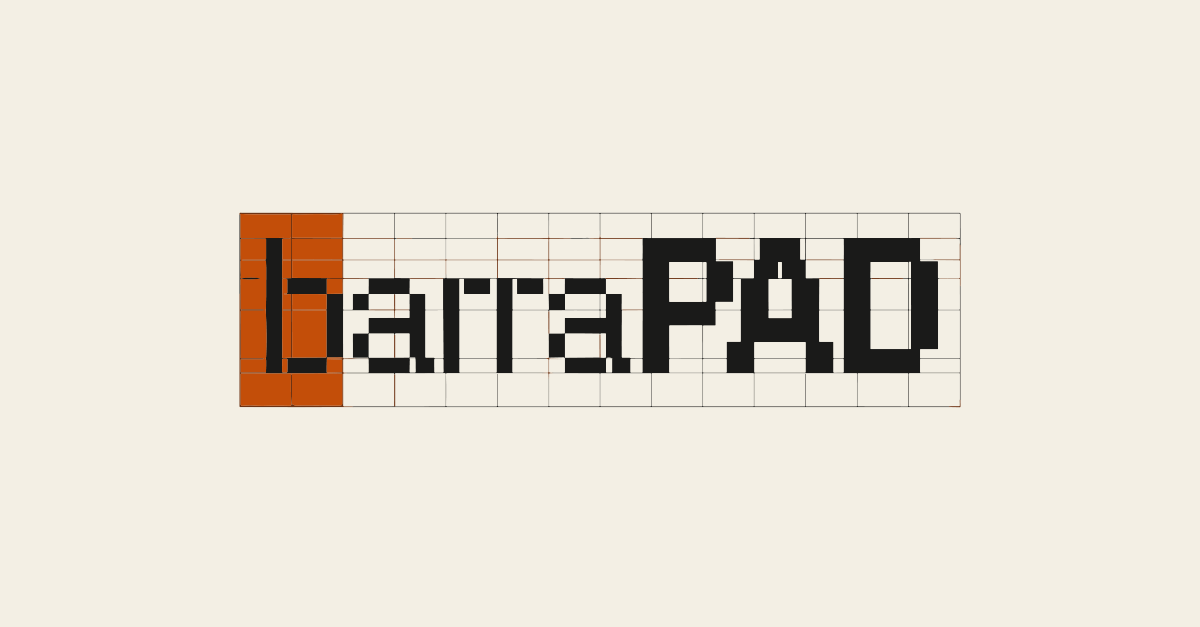
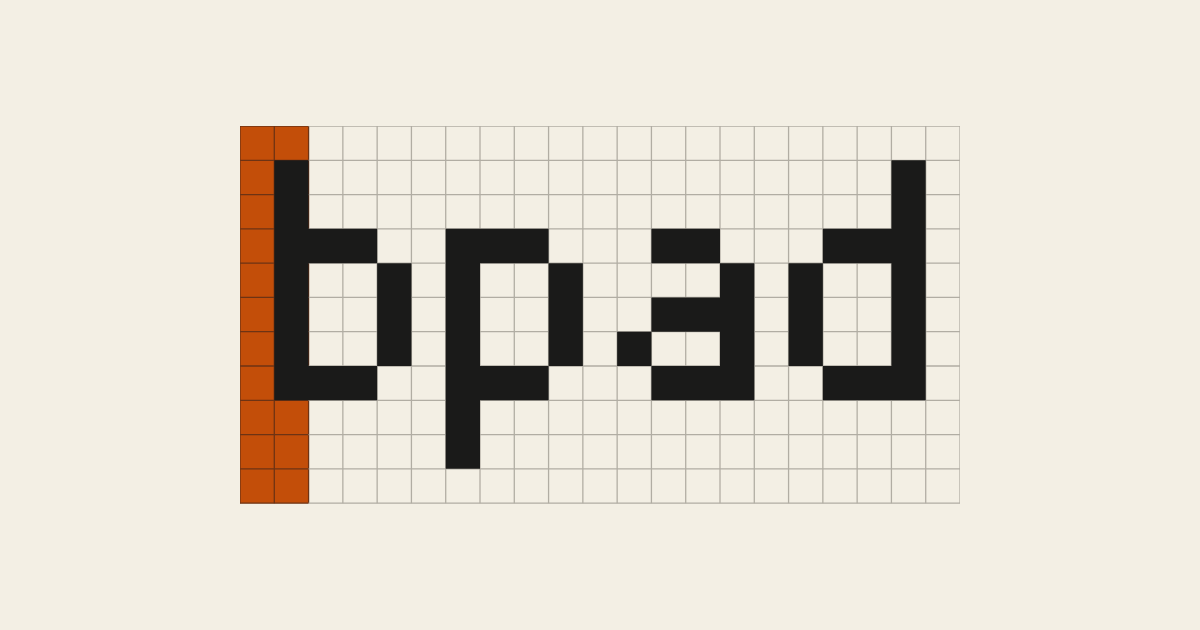
perf(load): server-render notes into the first paint; brand swap to bpad
The page now loads the user's notes with Prisma during the request and hands
them to AppShell, so the editor is usable at first paint instead of after
Clerk boots and /api/notes answers (about 1.4 s sooner on production). The
client fetch still runs for shared notes and refreshes. GET /api/notes shares
the helper.

Brand: new bpad icon and logo from the Portfolio brand folder replace the
barraPAD assets (favicon, app icon, sidebar logo, Open Graph image), and the
visible barraPAD strings now say bpad. Storage keys and event names unchanged.

diff --git a/components/AppShell.tsx b/components/AppShell.tsx
@@ -110,13 +110,14 @@ function saveTagRegistry(tags: Tag[]) {
   } catch {}
 }
 
-export default function AppShell() {
+export default function AppShell({ initialNotes }: { initialNotes?: Note[] } = {}) {
   const { isLoaded, isSignedIn } = useAuth()
   const { user } = useUser()
   const needsOnboarding = isLoaded && isSignedIn && user && !user.firstName
-  // Lazy init from cache — renders instantly, no loading state needed
-  const [notes, setNotes] = useState<Note[]>(() => loadCachedNotes())
-  const [activeNoteId, setActiveNoteId] = useState<string | null>(() => loadCachedNotes()[0]?.id ?? null)
+  // Server-rendered notes win (fresh, no lock); otherwise the localStorage
+  // cache renders instantly and the editor waits for the first fetch.
+  const [notes, setNotes] = useState<Note[]>(() => initialNotes ?? loadCachedNotes())
+  const [activeNoteId, setActiveNoteId] = useState<string | null>(() => (initialNotes ?? loadCachedNotes())[0]?.id ?? null)
   const [tagRegistry, setTagRegistry] = useState<Tag[]>(() => loadTagRegistry())
   // Incremented every time fetchNotes applies newer server content — lets the
   // Editor know it should re-check its content against the latest note.content.
@@ -124,7 +125,7 @@ export default function AppShell() {
   // False until the first /api/notes answer this session. While false the editor
   // is read-only: typing on top of a stale localStorage copy and auto-saving it
   // is how another device's edits got overwritten.
-  const [notesLoaded, setNotesLoaded] = useState(false)
+  const [notesLoaded, setNotesLoaded] = useState(!!initialNotes)
   const [sharedNotes, setSharedNotes] = useState<SharedAccessRecord[]>([])
   const [showShare, setShowShare] = useState(false)
   const [showAppearance, setShowAppearance] = useState(false)
@@ -299,8 +300,8 @@ export default function AppShell() {
   useEffect(() => {
     const noteName = activeNote?.title
     document.title = noteName
-      ? `${noteName} | barraPAD - A notepad for whatever`
-      : 'barraPAD - A notepad for whatever'
+      ? `${noteName} | bpad - A notepad for whatever`
+      : 'bpad - A notepad for whatever'
   }, [activeNote?.title])
 
   // Background sync — re-runs when Clerk finishes loading or auth state changes

diff --git a/components/SharedNoteView.tsx b/components/SharedNoteView.tsx
@@ -238,7 +238,7 @@ export default function SharedNoteView({ token, noteId, initialTitle, initialCon
       }
 
       if (msg.type === 'title' && msg.title) {
-        document.title = `${msg.title} | barraPAD - A notepad for whatever`
+        document.title = `${msg.title} | bpad - A notepad for whatever`
         return
       }
 
@@ -282,7 +282,7 @@ export default function SharedNoteView({ token, noteId, initialTitle, initialCon
       <div style={{ minHeight: '100vh', display: 'flex', alignItems: 'center', justifyContent: 'center', background: 'var(--editor-bg, #F9F7F4)' }}>
         <div style={{ textAlign: 'center' }}>
           <p style={{ fontSize: 16, color: '#8A8178', marginBottom: 12 }}>This note has been deleted.</p>
-          <a href="/" style={{ fontSize: 14, color: '#D4550A', textDecoration: 'none', fontWeight: 600 }}>← Go to barraPAD</a>
+          <a href="/" style={{ fontSize: 14, color: '#D4550A', textDecoration: 'none', fontWeight: 600 }}>← Go to bpad</a>
         </div>
       </div>
     )
@@ -298,7 +298,7 @@ export default function SharedNoteView({ token, noteId, initialTitle, initialCon
       }}>
         <div style={{ display: 'flex', alignItems: 'center', gap: 12 }}>
           <a href="/" style={{ textDecoration: 'none' }}>
-            <img src="/logo.svg" alt="barraPAD" style={{ height: 28 }} />
+            <img src="/logo.svg" alt="bpad" style={{ height: 28 }} />
           </a>
           {isLoaded && isSignedIn && (
             <a href="/" style={{
@@ -387,7 +387,7 @@ export default function SharedNoteView({ token, noteId, initialTitle, initialCon
             style={{ color: '#8A8178', opacity: 0.8, cursor: 'pointer', background: 'none', border: 'none' }}
             onMouseEnter={(e) => { e.currentTarget.style.opacity = '1'; e.currentTarget.style.color = '#B8420A' }}
             onMouseLeave={(e) => { e.currentTarget.style.opacity = '0.8'; e.currentTarget.style.color = '#8A8178' }}
-            title="About barraPAD"
+            title="About bpad"
           >
             <HelpCircle size={22} />
           </button>

diff --git a/app/layout.tsx b/app/layout.tsx
@@ -4,20 +4,20 @@ import './globals.css'
 
 export const metadata: Metadata = {
   metadataBase: new URL(process.env.NEXT_PUBLIC_BASE_URL ?? 'https://www.bpad.cc'),
-  title: 'barraPAD - A notepad for whatever',
+  title: 'bpad - A notepad for whatever',
   description: 'A rich text notepad for whatever. Cloud sync, rich formatting, and more.',
   icons: {
     icon: [{ url: '/favicon.svg', type: 'image/svg+xml' }],
   },
   openGraph: {
-    title: 'barraPAD - A notepad for whatever',
+    title: 'bpad - A notepad for whatever',
     description: 'A rich text notepad for whatever. Cloud sync, rich formatting, and more.',
     images: [{ url: '/og-image.png', width: 1200, height: 630 }],
     type: 'website',
   },
   twitter: {
     card: 'summary_large_image',
-    title: 'barraPAD - A notepad for whatever',
+    title: 'bpad - A notepad for whatever',
     description: 'A rich text notepad for whatever. Cloud sync, rich formatting, and more.',
     images: ['/og-image.png'],
   },

diff --git a/app/api/notes/route.ts b/app/api/notes/route.ts
@@ -1,28 +1,13 @@
 import { auth } from '@clerk/nextjs/server'
 import { NextResponse } from 'next/server'
 import { prisma } from '@/lib/prisma'
-import type { Tag } from '@/types'
-
-function parseTags(raw: string): Tag[] {
-  try { return JSON.parse(raw || '[]') } catch { return [] }
-}
+import { listOwnedNotes } from '@/lib/notes'
 
 export async function GET() {
   const { userId } = await auth()
   if (!userId) return NextResponse.json({ error: 'Unauthorized' }, { status: 401 })
 
-  const notes = await prisma.note.findMany({
-    where: { userId },
-    orderBy: { updatedAt: 'desc' },
-    include: { _count: { select: { shareLinks: { where: { revokedAt: null } } } } },
-  })
-
-  return NextResponse.json(notes.map(n => ({
-    ...n,
-    tags: parseTags(n.tags),
-    isShared: n._count.shareLinks > 0,
-    _count: undefined,
-  })), {
+  return NextResponse.json(await listOwnedNotes(userId), {
     headers: { 'Cache-Control': 'no-store, no-cache, must-revalidate' },
   })
 }

diff --git a/app/s/[token]/page.tsx b/app/s/[token]/page.tsx
@@ -25,12 +25,12 @@ function stripHtml(html: string) {
 export async function generateMetadata({ params }: Props): Promise<Metadata> {
   const link = await getShareData(params.token)
   if (!link) {
-    return { title: 'Note not found — barraPAD' }
+    return { title: 'Note not found — bpad' }
   }
 
   const title = link.note.title || 'Untitled'
-  const snippet = stripHtml(link.note.content).slice(0, 200) || 'A note shared from barraPAD.'
-  const fullTitle = `${title} — barraPAD`
+  const snippet = stripHtml(link.note.content).slice(0, 200) || 'A note shared from bpad.'
+  const fullTitle = `${title} — bpad`
 
   return {
     title: fullTitle,
@@ -39,7 +39,7 @@ export async function generateMetadata({ params }: Props): Promise<Metadata> {
       title: fullTitle,
       description: snippet,
       type: 'article',
-      siteName: 'barraPAD',
+      siteName: 'bpad',
       images: [{ url: '/og-image.png', width: 1200, height: 630 }],
     },
     twitter: {

diff --git a/app/api/notes/[id]/collaborators/route.ts b/app/api/notes/[id]/collaborators/route.ts
@@ -136,13 +136,13 @@ export async function POST(
   // Then send:
   //   if (inviteeEmail) {
   //     await resend.emails.send({
-  //       from: 'barraPAD <no-reply@bpad.cc>',
+  //       from: 'bpad <no-reply@bpad.cc>',
   //       to: inviteeEmail,
   //       subject: `${ownerName} shared "${owned.title || 'a note'}" with you`,
   //       html: `
   //         <p>Hi ${displayName || 'there'},</p>
-  //         <p><strong>${ownerName}</strong> invited you to ${permission === 'EDIT' ? 'collaborate on' : 'view'} a note in barraPAD.</p>
-  //         <p><a href="${process.env.NEXT_PUBLIC_BASE_URL ?? 'https://www.bpad.cc'}">Open barraPAD →</a></p>
+  //         <p><strong>${ownerName}</strong> invited you to ${permission === 'EDIT' ? 'collaborate on' : 'view'} a note in bpad.</p>
+  //         <p><a href="${process.env.NEXT_PUBLIC_BASE_URL ?? 'https://www.bpad.cc'}">Open bpad →</a></p>
   //       `,
   //     })
   //   }

diff --git a/lib/notes.ts b/lib/notes.ts
@@ -1,0 +1,24 @@
+import { prisma } from '@/lib/prisma'
+import type { Note, Tag } from '@/types'
+
+function parseTags(raw: string): Tag[] {
+  try { return JSON.parse(raw || '[]') } catch { return [] }
+}
+
+/** All notes a user owns, newest first, in the shape the client stores.
+ *  Used by GET /api/notes and by the server-rendered page so the first paint
+ *  already carries fresh notes (no round trip, no stale-cache lock). */
+export async function listOwnedNotes(userId: string): Promise<Note[]> {
+  const notes = await prisma.note.findMany({
+    where: { userId },
+    orderBy: { updatedAt: 'desc' },
+    include: { _count: { select: { shareLinks: { where: { revokedAt: null } } } } },
+  })
+  return notes.map(({ _count, ...n }) => ({
+    ...n,
+    tags: parseTags(n.tags),
+    createdAt: n.createdAt.toISOString(),
+    updatedAt: n.updatedAt.toISOString(),
+    isShared: _count.shareLinks > 0,
+  }))
+}

diff --git a/app/page.tsx b/app/page.tsx
@@ -1,5 +1,15 @@
+import { auth } from '@clerk/nextjs/server'
 import AppShell from '@/components/AppShell'
+import { listOwnedNotes } from '@/lib/notes'
 
-export default function Home() {
-  return <AppShell />
+export const dynamic = 'force-dynamic'
+
+export default async function Home() {
+  // Load the user's notes during the request instead of after Clerk boots in
+  // the browser: the page arrives with fresh data, so the editor is usable at
+  // first paint and never has to wait on /api/notes. Falls back to the client
+  // path (localStorage cache + fetch) if the query fails.
+  const { userId } = await auth()
+  const initialNotes = userId ? await listOwnedNotes(userId).catch(() => undefined) : undefined
+  return <AppShell initialNotes={initialNotes} />
 }

diff --git a/app/s/[token]/not-found.tsx b/app/s/[token]/not-found.tsx
@@ -11,11 +11,11 @@ export default function SharedNotNotFound() {
       background: '#F9F7F4',
       color: '#1A1A1A',
     }}>
-      <img src="/logo.svg" alt="barraPAD" style={{ height: 28, marginBottom: 8 }} />
+      <img src="/logo.svg" alt="bpad" style={{ height: 28, marginBottom: 8 }} />
       <h1 style={{ fontSize: 18, fontWeight: 600, margin: 0 }}>This link is no longer active</h1>
       <p style={{ fontSize: 14, color: '#8A8178', margin: 0 }}>The note may have been deleted or the share link was revoked.</p>
       <a href="/" style={{ marginTop: 8, fontSize: 13, color: '#D4550A', textDecoration: 'none', fontWeight: 500 }}>
-        Go to barraPAD →
+        Go to bpad →
       </a>
     </div>
   )

diff --git a/components/ShareModal.tsx b/components/ShareModal.tsx
@@ -359,7 +359,7 @@ export default function ShareModal({ note, onClose, onIsSharedChange }: ShareMod
                     <div className="flex items-center justify-between">
                       <div>
                         <p className="text-sm font-medium text-[#1A1A1A]">Invite people</p>
-                        <p className="text-xs text-[#C4BFB6]">Share directly with barraPAD users</p>
+                        <p className="text-xs text-[#C4BFB6]">Share directly with bpad users</p>
                       </div>
                       {/* Permission toggle */}
                       <div className="flex items-center border border-[#E5E0D8] rounded-lg overflow-hidden text-xs font-medium">

diff --git a/components/OnboardingModal.tsx b/components/OnboardingModal.tsx
@@ -30,7 +30,7 @@ export default function OnboardingModal() {
         style={{ background: 'var(--editor-bg, #fff)' }}
       >
         <div className="flex flex-col gap-1">
-          <img src="/logo.svg" alt="barraPAD" style={{ height: 28, width: 'auto', marginBottom: 8 }} />
+          <img src="/logo.svg" alt="bpad" style={{ height: 28, width: 'auto', marginBottom: 8 }} />
           <h2 className="text-lg font-semibold" style={{ color: 'var(--ink)' }}>Welcome! What's your name?</h2>
           <p className="text-sm" style={{ color: 'var(--muted)' }}>
             This is how you'll appear to collaborators in shared notes.

diff --git a/components/AppearanceModal.tsx b/components/AppearanceModal.tsx
@@ -22,7 +22,7 @@ const THEMES: Array<{
   { id: 'calm', label: 'Calm', sidebar: '#EDE8E0', editor: '#F5F0E8', accent: '#9B7D5E' },
   { id: 'synthwave', label: 'Synthwave', sidebar: '#12122a', editor: '#1a1a2e', accent: '#a855f7' },
   { id: 'earth', label: 'Earth', sidebar: '#8b9e7e', editor: '#c8d4c0', accent: '#7a6450' },
-  { id: 'barrapad', label: 'barraPAD', sidebar: '#F5F2ED', editor: '#ffffff', accent: '#D4550A' },
+  { id: 'barrapad', label: 'bpad', sidebar: '#F5F2ED', editor: '#ffffff', accent: '#D4550A' },
   { id: 'midnight', label: 'Midnight', sidebar: '#0d1b2e', editor: '#0a1628', accent: '#a0aec0' },
 ]
 
